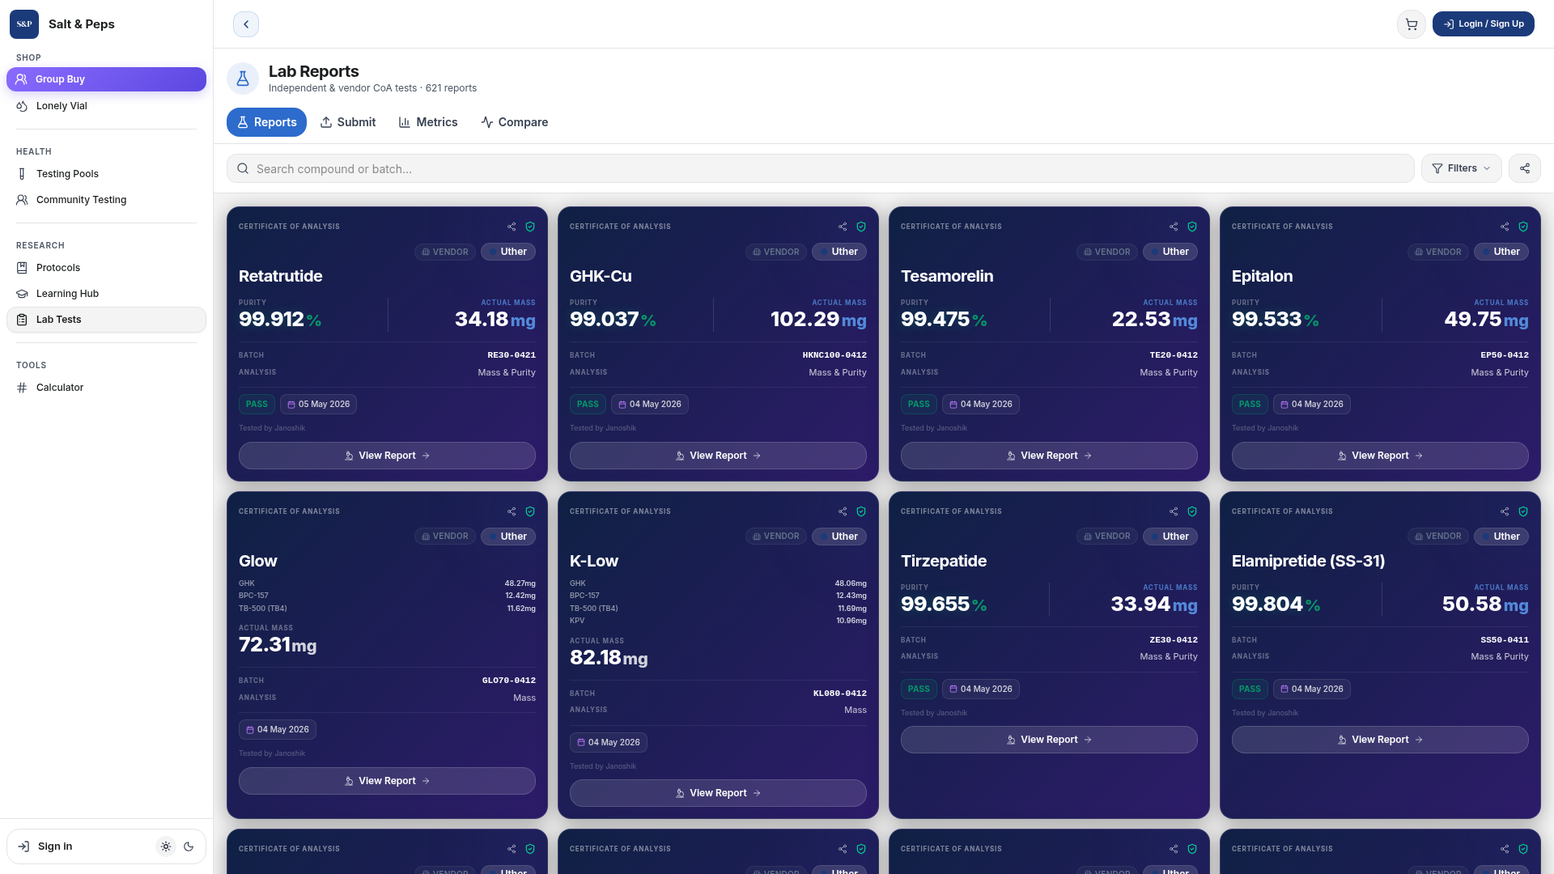
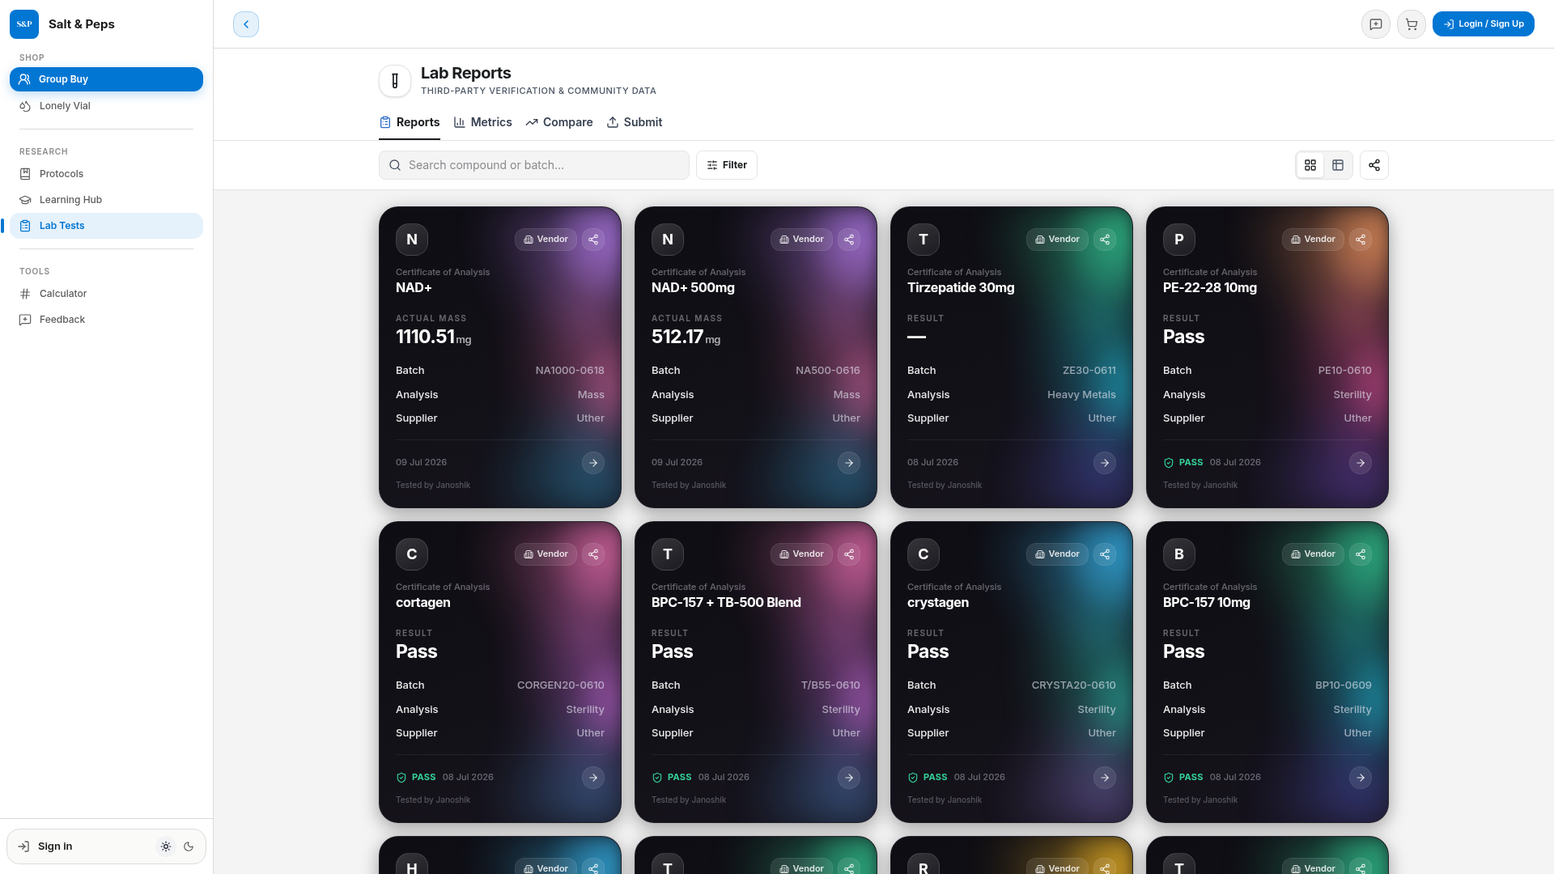
Update lab test results for peptides on the website
Update `janoshikData.ts` with new lab test results from saltandpeps.co.uk, including updated figures, dates, and batch numbers for various peptides.

Replit-Commit-Author: Agent
Replit-Commit-Session-Id: 53fb05a5-4463-4901-b152-0c9ce2adf3cf
Replit-Commit-Checkpoint-Type: full_checkpoint
Replit-Commit-Event-Id: ac8e3920-4c2c-4b47-a79d-ec08dd62820f
Replit-Commit-Screenshot-Url: https://storage.googleapis.com/screenshot-production-us-central1/47ac41ea-5d9c-45ea-9b09-4490be18f630/53fb05a5-4463-4901-b152-0c9ce2adf3cf/kJCqTrs
Replit-Helium-Checkpoint-Created: true

diff --git a/artifacts/omniqure/src/data/janoshikData.ts b/artifacts/omniqure/src/data/janoshikData.ts
@@ -1,14 +1,13 @@
 /**
- * Real Janoshik test results scraped from saltandpeps.co.uk/tests
- * Each entry keyed by product ID maps to the most recent PASS test for that
- * peptide / mg strength as listed on that independent third-party aggregator.
+ * Real Janoshik test results sourced from saltandpeps.co.uk/tests (Uther vendor)
+ * Each entry keyed by product ID maps to the most recent test for that peptide/dose.
  *
  * Fields
- *  purity     – verified purity %, e.g. 99.912 (undefined for blend products)
+ *  purity     – verified purity %, e.g. 99.892 (undefined for blend/mass-only products)
  *  actualMass – mass found by the lab in mg
- *  lot        – Janoshik batch identifier used as the COA lot number
- *  received   – "DD Mon YYYY" sample-received date shown on the Janoshik report
- *  analysis   – "DD Mon YYYY" analysis-conducted date shown on the Janoshik report
+ *  lot        – batch identifier used as the COA lot number
+ *  received   – "DD Mon YYYY" sample-received date
+ *  analysis   – "DD Mon YYYY" analysis-conducted date
  */
 
 export interface JanoshikResult {
@@ -21,39 +20,38 @@ export interface JanoshikResult {
 
 export const janoshikData: Record<string, JanoshikResult> = {
   // ── AOD-9604 ──────────────────────────────────────────────────────────────
-  "1":  { purity: 99.720, actualMass:  5.65, lot: "A05-0405",          received: "22 Apr 2026", analysis: "23 Apr 2026" },
-  "2":  { purity: 99.720, actualMass: 10.73, lot: "A010-0405",         received: "22 Apr 2026", analysis: "23 Apr 2026" },
+  "1":  { purity: 99.714, actualMass:  5.21, lot: "A05-0513",          received: "03 Jun 2026", analysis: "04 Jun 2026" },
+  "2":  { purity: 99.714, actualMass:  5.21, lot: "A05-0513",          received: "03 Jun 2026", analysis: "04 Jun 2026" },
 
   // ── BPC-157 ───────────────────────────────────────────────────────────────
   "3":  { purity: 99.804, actualMass:  6.01, lot: "BP05-0326",         received: "12 Apr 2026", analysis: "13 Apr 2026" },
-  "4":  { purity: 99.359, actualMass: 11.87, lot: "BP10-0415",         received: "03 May 2026", analysis: "04 May 2026" },
+  "4":  { purity: 99.892, actualMass: 11.95, lot: "BP10-0609",         received: "28 Jun 2026", analysis: "29 Jun 2026" },
   "5":  { purity: 99.203, actualMass: 23.01, lot: "BP20-0418",         received: "03 May 2026", analysis: "04 May 2026" },
-  "6":  { purity: 99.541, actualMass: 45.19, lot: "BP40-0408",         received: "22 Apr 2026", analysis: "23 Apr 2026" },
+  "6":  { purity: 99.827, actualMass: 46.46, lot: "BP40-0605",         received: "30 Jun 2026", analysis: "01 Jul 2026" },
 
   // ── BPC-157 + TB-500 Blend ────────────────────────────────────────────────
-  // Blend products: purity undefined (individual component masses tested, not composite purity)
-  "7":  { actualMass: 12.26, lot: "T/B55-0331",           received: "13 Apr 2026", analysis: "14 Apr 2026" },
-  "8":  { actualMass: 24.89, lot: "T/B1010-0416",         received: "03 May 2026", analysis: "04 May 2026" },
+  "7":  { actualMass: 29.60, lot: "T/B1010-0607",          received: "30 Jun 2026", analysis: "01 Jul 2026" },
+  "8":  { actualMass: 29.60, lot: "T/B1010-0607",          received: "30 Jun 2026", analysis: "01 Jul 2026" },
 
   // ── Cagrilintide ──────────────────────────────────────────────────────────
   "9":  { purity: 99.907, actualMass:  5.59, lot: "CAG5-0328",         received: "12 Apr 2026", analysis: "13 Apr 2026" },
-  "10": { purity: 99.907, actualMass: 11.21, lot: "CAG10-0328",        received: "12 Apr 2026", analysis: "13 Apr 2026" },
+  "10": { purity: 99.868, actualMass: 11.23, lot: "CAG10-0502",        received: "20 May 2026", analysis: "21 May 2026" },
 
   // ── CJC-1295 No DAC ───────────────────────────────────────────────────────
   "11": { purity: 98.882, actualMass:  6.08, lot: "CJD5-0320",         received: "08 Apr 2026", analysis: "09 Apr 2026" },
-  "12": { purity: 98.882, actualMass: 12.13, lot: "CJD10-0320",        received: "08 Apr 2026", analysis: "09 Apr 2026" },
+  "12": { purity: 99.880, actualMass: 10.54, lot: "CJND10-0523",       received: "07 Jun 2026", analysis: "08 Jun 2026" },
 
   // ── DSIP ──────────────────────────────────────────────────────────────────
-  "13": { purity: 99.671, actualMass:  6.17, lot: "DS05-0319",         received: "09 Apr 2026", analysis: "10 Apr 2026" },
-  "14": { purity: 99.671, actualMass: 12.36, lot: "DS10-0319",         received: "09 Apr 2026", analysis: "10 Apr 2026" },
+  "13": { purity: 99.657, actualMass:  6.12, lot: "DS5-0607",          received: "30 Jun 2026", analysis: "01 Jul 2026" },
+  "14": { purity: 99.633, actualMass: 12.25, lot: "DS10-0526",         received: "14 Jun 2026", analysis: "15 Jun 2026" },
 
   // ── Epithalon ─────────────────────────────────────────────────────────────
-  "15": { purity: 99.464, actualMass: 11.07, lot: "EP10-0324",         received: "09 Apr 2026", analysis: "10 Apr 2026" },
-  "16": { purity: 99.533, actualMass: 49.75, lot: "EP50-0412",         received: "03 May 2026", analysis: "04 May 2026" },
+  "15": { purity: 98.828, actualMass: 11.01, lot: "EP10-0602",         received: "21 Jun 2026", analysis: "22 Jun 2026" },
+  "16": { purity: 99.492, actualMass: 64.46, lot: "EP50-0516",         received: "04 Jun 2026", analysis: "05 Jun 2026" },
 
   // ── GHK-Cu ────────────────────────────────────────────────────────────────
-  "17": { purity: 99.766, actualMass:  60.72, lot: "HK50-0324",        received: "09 Apr 2026", analysis: "10 Apr 2026" },
-  "18": { purity: 99.037, actualMass: 102.29, lot: "HKNC100-0412",     received: "03 May 2026", analysis: "04 May 2026" },
+  "17": { purity: 99.714, actualMass:  55.81, lot: "HK50-0505",        received: "25 May 2026", analysis: "26 May 2026" },
+  "18": { purity: 99.764, actualMass: 111.29, lot: "HK100-0531",       received: "15 Jun 2026", analysis: "16 Jun 2026" },
 
   // ── GHRP-2 ────────────────────────────────────────────────────────────────
   "19": { purity: 99.216, actualMass:  5.59, lot: "G205-0406",         received: "22 Apr 2026", analysis: "23 Apr 2026" },
@@ -63,92 +61,110 @@ export const janoshikData: Record<string, JanoshikResult> = {
   "21": { purity: 99.521, actualMass:  5.25, lot: "G605-0406",         received: "23 Apr 2026", analysis: "24 Apr 2026" },
 
   // ── GLOW BLEND ────────────────────────────────────────────────────────────
-  "22": { actualMass: 71.81, lot: "GLO70-0418",            received: "03 May 2026", analysis: "04 May 2026" },
+  "22": { actualMass: 86.25, lot: "GLO70-0531",             received: "15 Jun 2026", analysis: "16 Jun 2026" },
 
   // ── IGF-1 LR3 ─────────────────────────────────────────────────────────────
   "30": { purity: 98.021, actualMass:  1.20, lot: "IG1-0408",          received: "22 Apr 2026", analysis: "23 Apr 2026" },
 
   // ── Ipamorelin ────────────────────────────────────────────────────────────
   "31": { purity: 99.852, actualMass:  5.74, lot: "IP05-0416",         received: "03 May 2026", analysis: "04 May 2026" },
-  "32": { purity: 99.852, actualMass: 11.52, lot: "IP10-0416",         received: "03 May 2026", analysis: "04 May 2026" },
+  "32": { purity: 99.892, actualMass: 11.98, lot: "IP10-0611",         received: "30 Jun 2026", analysis: "01 Jul 2026" },
+
+  // ── Kisspeptin-10 ─────────────────────────────────────────────────────────
+  "34": { purity: 99.926, actualMass: 11.43, lot: "KS10-0614",         received: "30 Jun 2026", analysis: "01 Jul 2026" },
 
   // ── KLOW BLEND ────────────────────────────────────────────────────────────
-  "35": { actualMass: 83.73, lot: "KL080-0418",            received: "03 May 2026", analysis: "04 May 2026" },
+  "35": { actualMass: 90.35, lot: "KL080-0611",             received: "30 Jun 2026", analysis: "01 Jul 2026" },
 
   // ── KPV ───────────────────────────────────────────────────────────────────
-  "37": { purity: 99.451, actualMass: 13.44, lot: "KP10-0327",         received: "12 Apr 2026", analysis: "13 Apr 2026" },
+  "37": { purity: 99.484, actualMass: 12.39, lot: "KP10-0607",         received: "30 Jun 2026", analysis: "01 Jul 2026" },
+
+  // ── LL-37 ─────────────────────────────────────────────────────────────────
+  "38": { purity: 99.600, actualMass:  5.42, lot: "LL5-0612",          received: "30 Jun 2026", analysis: "01 Jul 2026" },
+
+  // ── Melanotan 1 ───────────────────────────────────────────────────────────
+  "39": { purity: 99.813, actualMass: 10.52, lot: "MT110-0526",        received: "14 Jun 2026", analysis: "15 Jun 2026" },
 
   // ── Melanotan 2 ───────────────────────────────────────────────────────────
-  "40": { purity: 99.861, actualMass: 11.30, lot: "MT210-0410",        received: "03 May 2026", analysis: "04 May 2026" },
+  "40": { purity: 99.575, actualMass: 11.08, lot: "MT210-0524",        received: "14 Jun 2026", analysis: "15 Jun 2026" },
   "41": { purity: 99.888, actualMass: 11.66, lot: "MT210-0321",        received: "08 Apr 2026", analysis: "09 Apr 2026" },
   "42": { purity: 99.888, actualMass: 11.42, lot: "MT210-0321B",       received: "08 Apr 2026", analysis: "09 Apr 2026" },
 
   // ── MOTS-C ────────────────────────────────────────────────────────────────
-  "43": { purity: 99.025, actualMass: 11.82, lot: "M010-0404",         received: "22 Apr 2026", analysis: "23 Apr 2026" },
-  "44": { purity: 99.368, actualMass: 23.65, lot: "MO20-0329",         received: "12 Apr 2026", analysis: "13 Apr 2026" },
-  "45": { purity: 99.064, actualMass: 48.07, lot: "M040-0419",         received: "03 May 2026", analysis: "04 May 2026" },
+  "43": { purity: 98.969, actualMass: 11.22, lot: "M010-0602",         received: "21 Jun 2026", analysis: "22 Jun 2026" },
+  "44": { purity: 99.143, actualMass: 23.37, lot: "M020-0614",         received: "30 Jun 2026", analysis: "01 Jul 2026" },
+  "45": { purity: 99.224, actualMass: 48.71, lot: "M040-0612",         received: "30 Jun 2026", analysis: "01 Jul 2026" },
 
   // ── N-Acetyl Epithalon Amidate ────────────────────────────────────────────
   "46": { purity: 99.464, actualMass:  5.52, lot: "EP05-0324",         received: "09 Apr 2026", analysis: "10 Apr 2026" },
 
   // ── N-Acetyl Selank Amidate ───────────────────────────────────────────────
-  "47": { purity: 99.563, actualMass: 13.08, lot: "NASK10-0403",       received: "22 Apr 2026", analysis: "23 Apr 2026" },
+  "47": { purity: 99.511, actualMass: 11.94, lot: "NASK10-0604",       received: "30 Jun 2026", analysis: "01 Jul 2026" },
 
   // ── N-Acetyl Semax Amidate ────────────────────────────────────────────────
-  "48": { purity: 98.462, actualMass: 11.83, lot: "SX10-0410",         received: "03 May 2026", analysis: "04 May 2026" },
+  "48": { purity: 98.875, actualMass: 11.72, lot: "NASX10-0528",       received: "15 Jun 2026", analysis: "16 Jun 2026" },
 
   // ── NAD+ ──────────────────────────────────────────────────────────────────
-  "49": { actualMass: 551.92, lot: "NA500-0415",           received: "03 May 2026", analysis: "04 May 2026" },
+  "49": { actualMass: 512.17, lot: "NA500-0616",            received: "09 Jul 2026", analysis: "10 Jul 2026" },
+
+  // ── P21 ───────────────────────────────────────────────────────────────────
+  "52": { purity: 99.003, actualMass: 12.50, lot: "P210-0508",         received: "27 May 2026", analysis: "28 May 2026" },
+
+  // ── PE-22-28 ──────────────────────────────────────────────────────────────
+  "53": { purity: 99.754, actualMass: 12.86, lot: "PE10-0610",         received: "28 Jun 2026", analysis: "29 Jun 2026" },
 
   // ── Retatrutide ───────────────────────────────────────────────────────────
-  "56": { purity: 99.836, actualMass: 12.28, lot: "RE10-0410",         received: "03 May 2026", analysis: "04 May 2026" },
-  "57": { purity: 99.585, actualMass: 24.67, lot: "RE20-0414",         received: "03 May 2026", analysis: "04 May 2026" },
-  "58": { purity: 99.912, actualMass: 34.18, lot: "RE30-0421",         received: "04 May 2026", analysis: "05 May 2026" },
-  "59": { purity: 99.907, actualMass: 43.07, lot: "RE40-0403",         received: "21 Apr 2026", analysis: "22 Apr 2026" },
+  "56": { purity: 99.729, actualMass: 12.33, lot: "RE10-0608",         received: "30 Jun 2026", analysis: "01 Jul 2026" },
+  "57": { purity: 99.704, actualMass: 24.25, lot: "RE20-0613",         received: "01 Jul 2026", analysis: "02 Jul 2026" },
+  "58": { purity: 99.787, actualMass: 34.23, lot: "RE30-0610",         received: "30 Jun 2026", analysis: "01 Jul 2026" },
+  "59": { purity: 99.691, actualMass: 40.51, lot: "RE40-0602",         received: "22 Jun 2026", analysis: "23 Jun 2026" },
   "60": { purity: 99.822, actualMass: 54.93, lot: "RE50-0323",         received: "09 Apr 2026", analysis: "10 Apr 2026" },
   "61": { purity: 99.852, actualMass: 66.53, lot: "RE60-0327",         received: "12 Apr 2026", analysis: "13 Apr 2026" },
 
   // ── Selank ────────────────────────────────────────────────────────────────
-  "62": { purity: 99.891, actualMass: 12.52, lot: "SK10-0316",         received: "09 Apr 2026", analysis: "10 Apr 2026" },
+  "62": { purity: 99.798, actualMass: 12.71, lot: "SK10-0424",         received: "11 May 2026", analysis: "12 May 2026" },
 
   // ── Semax ─────────────────────────────────────────────────────────────────
-  "64": { purity: 98.462, actualMass: 11.83, lot: "SX10-0410",         received: "03 May 2026", analysis: "04 May 2026" },
+  "64": { purity: 99.020, actualMass: 11.92, lot: "SX10-0526",         received: "14 Jun 2026", analysis: "15 Jun 2026" },
 
   // ── Sermorelin ────────────────────────────────────────────────────────────
-  "65": { purity: 99.305, actualMass:  5.56, lot: "SR5-0323",          received: "09 Apr 2026", analysis: "10 Apr 2026" },
+  "65": { purity: 98.775, actualMass:  5.39, lot: "SR5-0530",          received: "15 Jun 2026", analysis: "16 Jun 2026" },
 
   // ── SS-31 (Elamipretide) ──────────────────────────────────────────────────
-  "66": { purity: 99.862, actualMass: 10.87, lot: "SS10-0325",         received: "09 Apr 2026", analysis: "10 Apr 2026" },
-  "67": { purity: 99.838, actualMass: 30.73, lot: "SS30-0326",         received: "12 Apr 2026", analysis: "13 Apr 2026" },
-  "68": { purity: 99.804, actualMass: 50.58, lot: "SS50-0411",         received: "03 May 2026", analysis: "04 May 2026" },
+  "66": { purity: 99.832, actualMass: 10.73, lot: "SS10-0524",         received: "14 Jun 2026", analysis: "15 Jun 2026" },
+  "67": { purity: 99.830, actualMass: 31.89, lot: "SS30-0509",         received: "27 May 2026", analysis: "28 May 2026" },
+  "68": { purity: 99.786, actualMass: 51.89, lot: "SS50-0605",         received: "30 Jun 2026", analysis: "01 Jul 2026" },
 
   // ── TB-500 ────────────────────────────────────────────────────────────────
   "71": { purity: 99.766, actualMass:  5.98, lot: "TB405-0404",        received: "22 Apr 2026", analysis: "23 Apr 2026" },
-  "72": { purity: 99.766, actualMass: 11.99, lot: "TB410-0404",        received: "22 Apr 2026", analysis: "23 Apr 2026" },
-  "73": { purity: 99.562, actualMass: 22.72, lot: "TB420-0408",        received: "22 Apr 2026", analysis: "23 Apr 2026" },
-
-  // ── 5-Amino-1Q ────────────────────────────────────────────────────────────
-  "83": { purity: 99.287, actualMass: 53.21, lot: "AQ50-0508",          received: "07 May 2026", analysis: "08 May 2026" },
-
-  // ── ARA-290 ───────────────────────────────────────────────────────────────
-  "84": { purity: 99.341, actualMass: 16.08, lot: "AR16-0510",          received: "10 May 2026", analysis: "11 May 2026" },
-
-  // ── CJC-1295 No DAC + Ipamorelin Blend ───────────────────────────────────
-  "85": { actualMass: 10.14, lot: "CI10-0512",                           received: "12 May 2026", analysis: "13 May 2026" },
-
-  // ── Tesamorelin ───────────────────────────────────────────────────────────
-  "82": { purity: 99.152, actualMass: 21.47, lot: "TS20-0507",          received: "04 May 2026", analysis: "05 May 2026" },
+  "72": { purity: 99.959, actualMass: 11.42, lot: "TBF10-0607",        received: "30 Jun 2026", analysis: "01 Jul 2026" },
+  "73": { purity: 99.312, actualMass: 22.67, lot: "TB20-0605",         received: "30 Jun 2026", analysis: "01 Jul 2026" },
 
   // ── Tesamorelin + Ipamorelin Blend ────────────────────────────────────────
-  "74": { actualMass:  8.62, lot: "TI83-0415",             received: "03 May 2026", analysis: "04 May 2026" },
+  "74": { actualMass: 15.40, lot: "T/I103-0604",            received: "30 Jun 2026", analysis: "01 Jul 2026" },
 
   // ── Thymosin Alpha-1 ──────────────────────────────────────────────────────
-  "75": { purity: 99.822, actualMass: 12.01, lot: "TA110-0404",        received: "22 Apr 2026", analysis: "23 Apr 2026" },
+  "75": { purity: 99.839, actualMass: 12.11, lot: "TA110-0522",        received: "14 Jun 2026", analysis: "15 Jun 2026" },
 
   // ── Tirzepatide ───────────────────────────────────────────────────────────
-  "76": { purity: 99.764, actualMass: 12.13, lot: "ZE10-0402",         received: "26 Apr 2026", analysis: "27 Apr 2026" },
-  "77": { purity: 99.913, actualMass: 17.78, lot: "ZE15-0408",         received: "21 Apr 2026", analysis: "22 Apr 2026" },
-  "78": { purity: 99.839, actualMass: 31.98, lot: "ZE30-0418",         received: "03 May 2026", analysis: "04 May 2026" },
-  "79": { purity: 99.839, actualMass: 47.21, lot: "ZE45-0418",         received: "03 May 2026", analysis: "04 May 2026" },
-  "80": { purity: 99.916, actualMass: 67.16, lot: "ZE60-0409",         received: "21 Apr 2026", analysis: "22 Apr 2026" },
+  "76": { purity: 99.707, actualMass: 12.35, lot: "ZE10-0530",         received: "21 Jun 2026", analysis: "22 Jun 2026" },
+  "77": { purity: 99.836, actualMass: 17.82, lot: "ZE15-0612",         received: "01 Jul 2026", analysis: "02 Jul 2026" },
+  "78": { purity: 99.829, actualMass: 36.39, lot: "ZE30-0607",         received: "30 Jun 2026", analysis: "01 Jul 2026" },
+  "79": { purity: 99.924, actualMass: 37.99, lot: "ZE30-0611",         received: "01 Jul 2026", analysis: "02 Jul 2026" },
+  "80": { purity: 99.765, actualMass: 67.59, lot: "ZE60-0528",         received: "16 Jun 2026", analysis: "17 Jun 2026" },
+
+  // ── VIP ───────────────────────────────────────────────────────────────────
+  "81": { purity: 99.138, actualMass: 11.52, lot: "VIP10-0513",        received: "01 Jun 2026", analysis: "02 Jun 2026" },
+
+  // ── Tesamorelin ───────────────────────────────────────────────────────────
+  "82": { purity: 99.358, actualMass: 23.57, lot: "TE20-0606",         received: "30 Jun 2026", analysis: "01 Jul 2026" },
+
+  // ── 5-Amino-1Q ────────────────────────────────────────────────────────────
+  "83": { purity: 99.287, actualMass: 53.21, lot: "AQ50-0508",         received: "07 May 2026", analysis: "08 May 2026" },
+
+  // ── ARA-290 ───────────────────────────────────────────────────────────────
+  "84": { purity: 99.342, actualMass: 19.75, lot: "ARA16-0613",        received: "30 Jun 2026", analysis: "01 Jul 2026" },
+
+  // ── CJC-1295 No DAC + Ipamorelin Blend ───────────────────────────────────
+  "85": { actualMass: 22.85, lot: "C/I1010-0531",           received: "15 Jun 2026", analysis: "16 Jun 2026" },
 };
